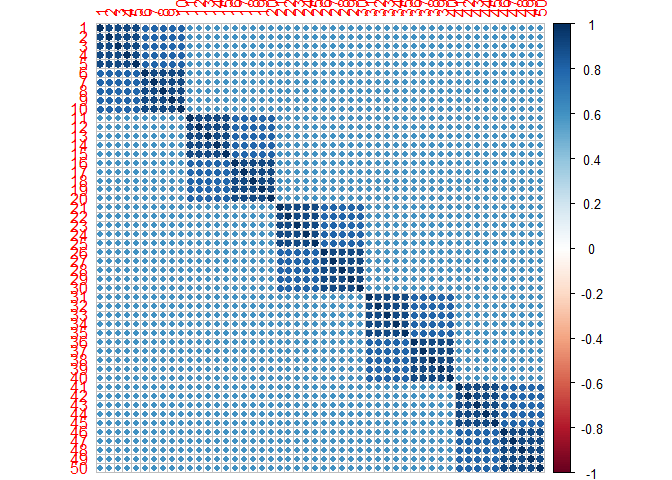
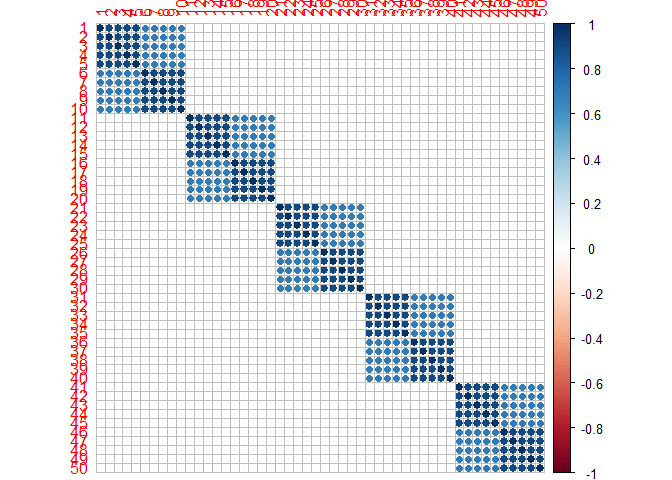
updating readme

Changed region(s): [[0.125, 0.0312, 0.8125, 1.0], [0.4688, 0.4688, 0.5, 0.5]]

diff --git a/README.md b/README.md
@@ -82,7 +82,7 @@ if(Clusters == "non-overlapping"){
     
 for (i in 1:Grps) {
       ix <- seq((i-1) * N / Grps + 1, i * N / Grps)
-      Sigma[ix, -ix] <- 0.1
+      Sigma[ix, -ix] <- 0.0001                       #think about
     }
     Sigma <- propagate::cor2cov(Sigma, runif(N, 1, 5))
     corr <- cov2cor(Sigma)
@@ -106,23 +106,23 @@ if(Clusters == "overlapping"){
 
     for (i in 1:Grps[1]) {
       ix <- seq((i-1) * N / Grps[1] + 1, i * N / Grps[1])
-      Sigma[ix, -ix] <- 0.8
+      Sigma[ix, -ix] <- 0.7
     }
     
     if(Num_Layers>=2){
         for (i in 1:Grps[2]) {
           ix <- seq((i-1) * N / Grps[2] + 1, i * N / Grps[2])
-          Sigma[ix, -ix] <- 0.6
+          Sigma[ix, -ix] <- 0.05
         } }else
     if(Num_Layers>=3){
         for (i in 1:Grps[3]) {
       ix <- seq((i-1) * N / Grps[3] + 1, i * N / Grps[3])
-      Sigma[ix, -ix] <- 0.4
+      Sigma[ix, -ix] <- 0.03
         } }else
     if(Num_Layers>=4){
         for (i in 1:Grps[4]) {
       ix <- seq((i-1) * N / Grps[4] + 1, i * N / Grps[4])
-      Sigma[ix, -ix] <- 0.1
+      Sigma[ix, -ix] <- 0
         } } 
     }
 
@@ -178,7 +178,19 @@ Arguments
     elliptical copula
   - elliptal\_copula family name of elliptal copula. Default is to use
     “t”, but “norm” is also accepted
-  - left\_cop
+  - df\_ellip a positive integer specifying the degrees of freedom for
+    the student t elliptic copula. Only required when using
+    elliptal\_copula = “t”.
+  - left\_cop\_param a positive integer specifying the parameter of the
+    **Clayton** copula.
+  - left\_cop\_weight a value between 0 and 1 corresponding to the
+    weight assigned to the left copula, when generating random draws
+    from a hybrid copula.
+  - marginal\_dist a character string specifying the marginal
+    distribution of the simulated data. Must be “norm” or “t”, with the
+    default generating uniformly distributed marginals.
+  - df\_marginal\_dist a positive integer specifying the degrees of
+    freedom parameter of the “t” distributed marginals.
 
 <!-- end list -->
 
@@ -244,33 +256,43 @@ Testing hycop
 ``` r
 set.seed(123)
 
-Corr <- gcVar(N = 50, Clusters = "non-overlapping", Num_Clusters = 2)
-
-
-#First test when marginal_dist=NULL ie unif(0,1)
-#left_cop_param = 6 AND left_cop_weight = 0.7 looks good
-set.seed(123)
-inno <- hycop(Corr, elliptal_copula = "t", df_ellip = 10, left_cop_param = 6, left_cop_weight = 0.7, T = 10000)
-
-inno %>% plot(main = 'Hycop: Unif marginals')
+Corr <- gcVar(N = 50, Clusters = "overlapping", Num_Layers = 3, Num_Clusters = c(10,5,2))
+Corr %>% corrplot::corrplot()
 ```
 
 ![](README_files/figure-gfm/unnamed-chunk-2-1.png)<!-- -->
 
 ``` r
-inno %>% cor %>%  corrplot::corrplot()
+#First test when marginal_dist=NULL ie unif(0,1)
+#left_cop_param = 6 AND left_cop_weight = 0.7 looks good
+set.seed(123)
+inno <- hycop(Corr, elliptal_copula = "t", df_ellip = 10, left_cop_param = 10, left_cop_weight = 0.4, T = 10000)
+
+inno %>% plot(main = 'Hycop: Unif marginals')
 ```
 
 ![](README_files/figure-gfm/unnamed-chunk-2-2.png)<!-- -->
 
 ``` r
-#Using marginal_dist="norm"
-set.seed(123)
-data <- hycop(Corr, elliptal_copula = "t", df_ellip = 10, left_cop_param = 6, left_cop_weight = 0.5, T = 10000, marginal_dist = "norm")
-data %>% plot(main = 'Hycop: norm(0,1) marginals') 
+inno %>% cor %>%  corrplot::corrplot()
 ```
 
 ![](README_files/figure-gfm/unnamed-chunk-2-3.png)<!-- -->
+
+``` r
+#Using marginal_dist="norm"
+set.seed(123)
+data <- hycop(Corr, elliptal_copula = "t", df_ellip = 30, left_cop_param = 10, left_cop_weight = 0.5, T = 10000, marginal_dist = "norm")
+data %>% plot(main = 'Hycop: norm(0,1) marginals') 
+```
+
+![](README_files/figure-gfm/unnamed-chunk-2-4.png)<!-- -->
+
+``` r
+data %>% cor %>%  corrplot::corrplot()
+```
+
+![](README_files/figure-gfm/unnamed-chunk-2-5.png)<!-- -->
 
 ``` r
 #Using marginal_dist="t"
@@ -279,7 +301,25 @@ data <- hycop(Corr, elliptal_copula = "t", df_ellip = 10, left_cop_param = 6, le
 data %>% plot(main = 'Hycop: t-dist marginals, df = 8') 
 ```
 
-![](README_files/figure-gfm/unnamed-chunk-2-4.png)<!-- -->
+![](README_files/figure-gfm/unnamed-chunk-2-6.png)<!-- -->
+
+``` r
+plot(data[,1], data[,10], main = 'Hycop: t-dist marginals, df = 8')
+```
+
+![](README_files/figure-gfm/unnamed-chunk-2-7.png)<!-- -->
+
+``` r
+plot(data[,1], data[,ncol(data)], main = 'Hycop: t-dist marginals, df = 8')
+```
+
+![](README_files/figure-gfm/unnamed-chunk-2-8.png)<!-- -->
+
+``` r
+data %>% cor %>%  corrplot::corrplot()
+```
+
+![](README_files/figure-gfm/unnamed-chunk-2-9.png)<!-- -->
 
 # Introducing autocorrelation and Volitility clustering
 
@@ -287,6 +327,10 @@ In this step I introduce autocorrelation and volatility using an
 AR(p,q)+GARCH(q,p) model.
 
 ## Questions
+
+  - How should I deal with the burn in period?
+
+<!-- end list -->
 
 ``` r
 pacman::p_load(fGarch)
